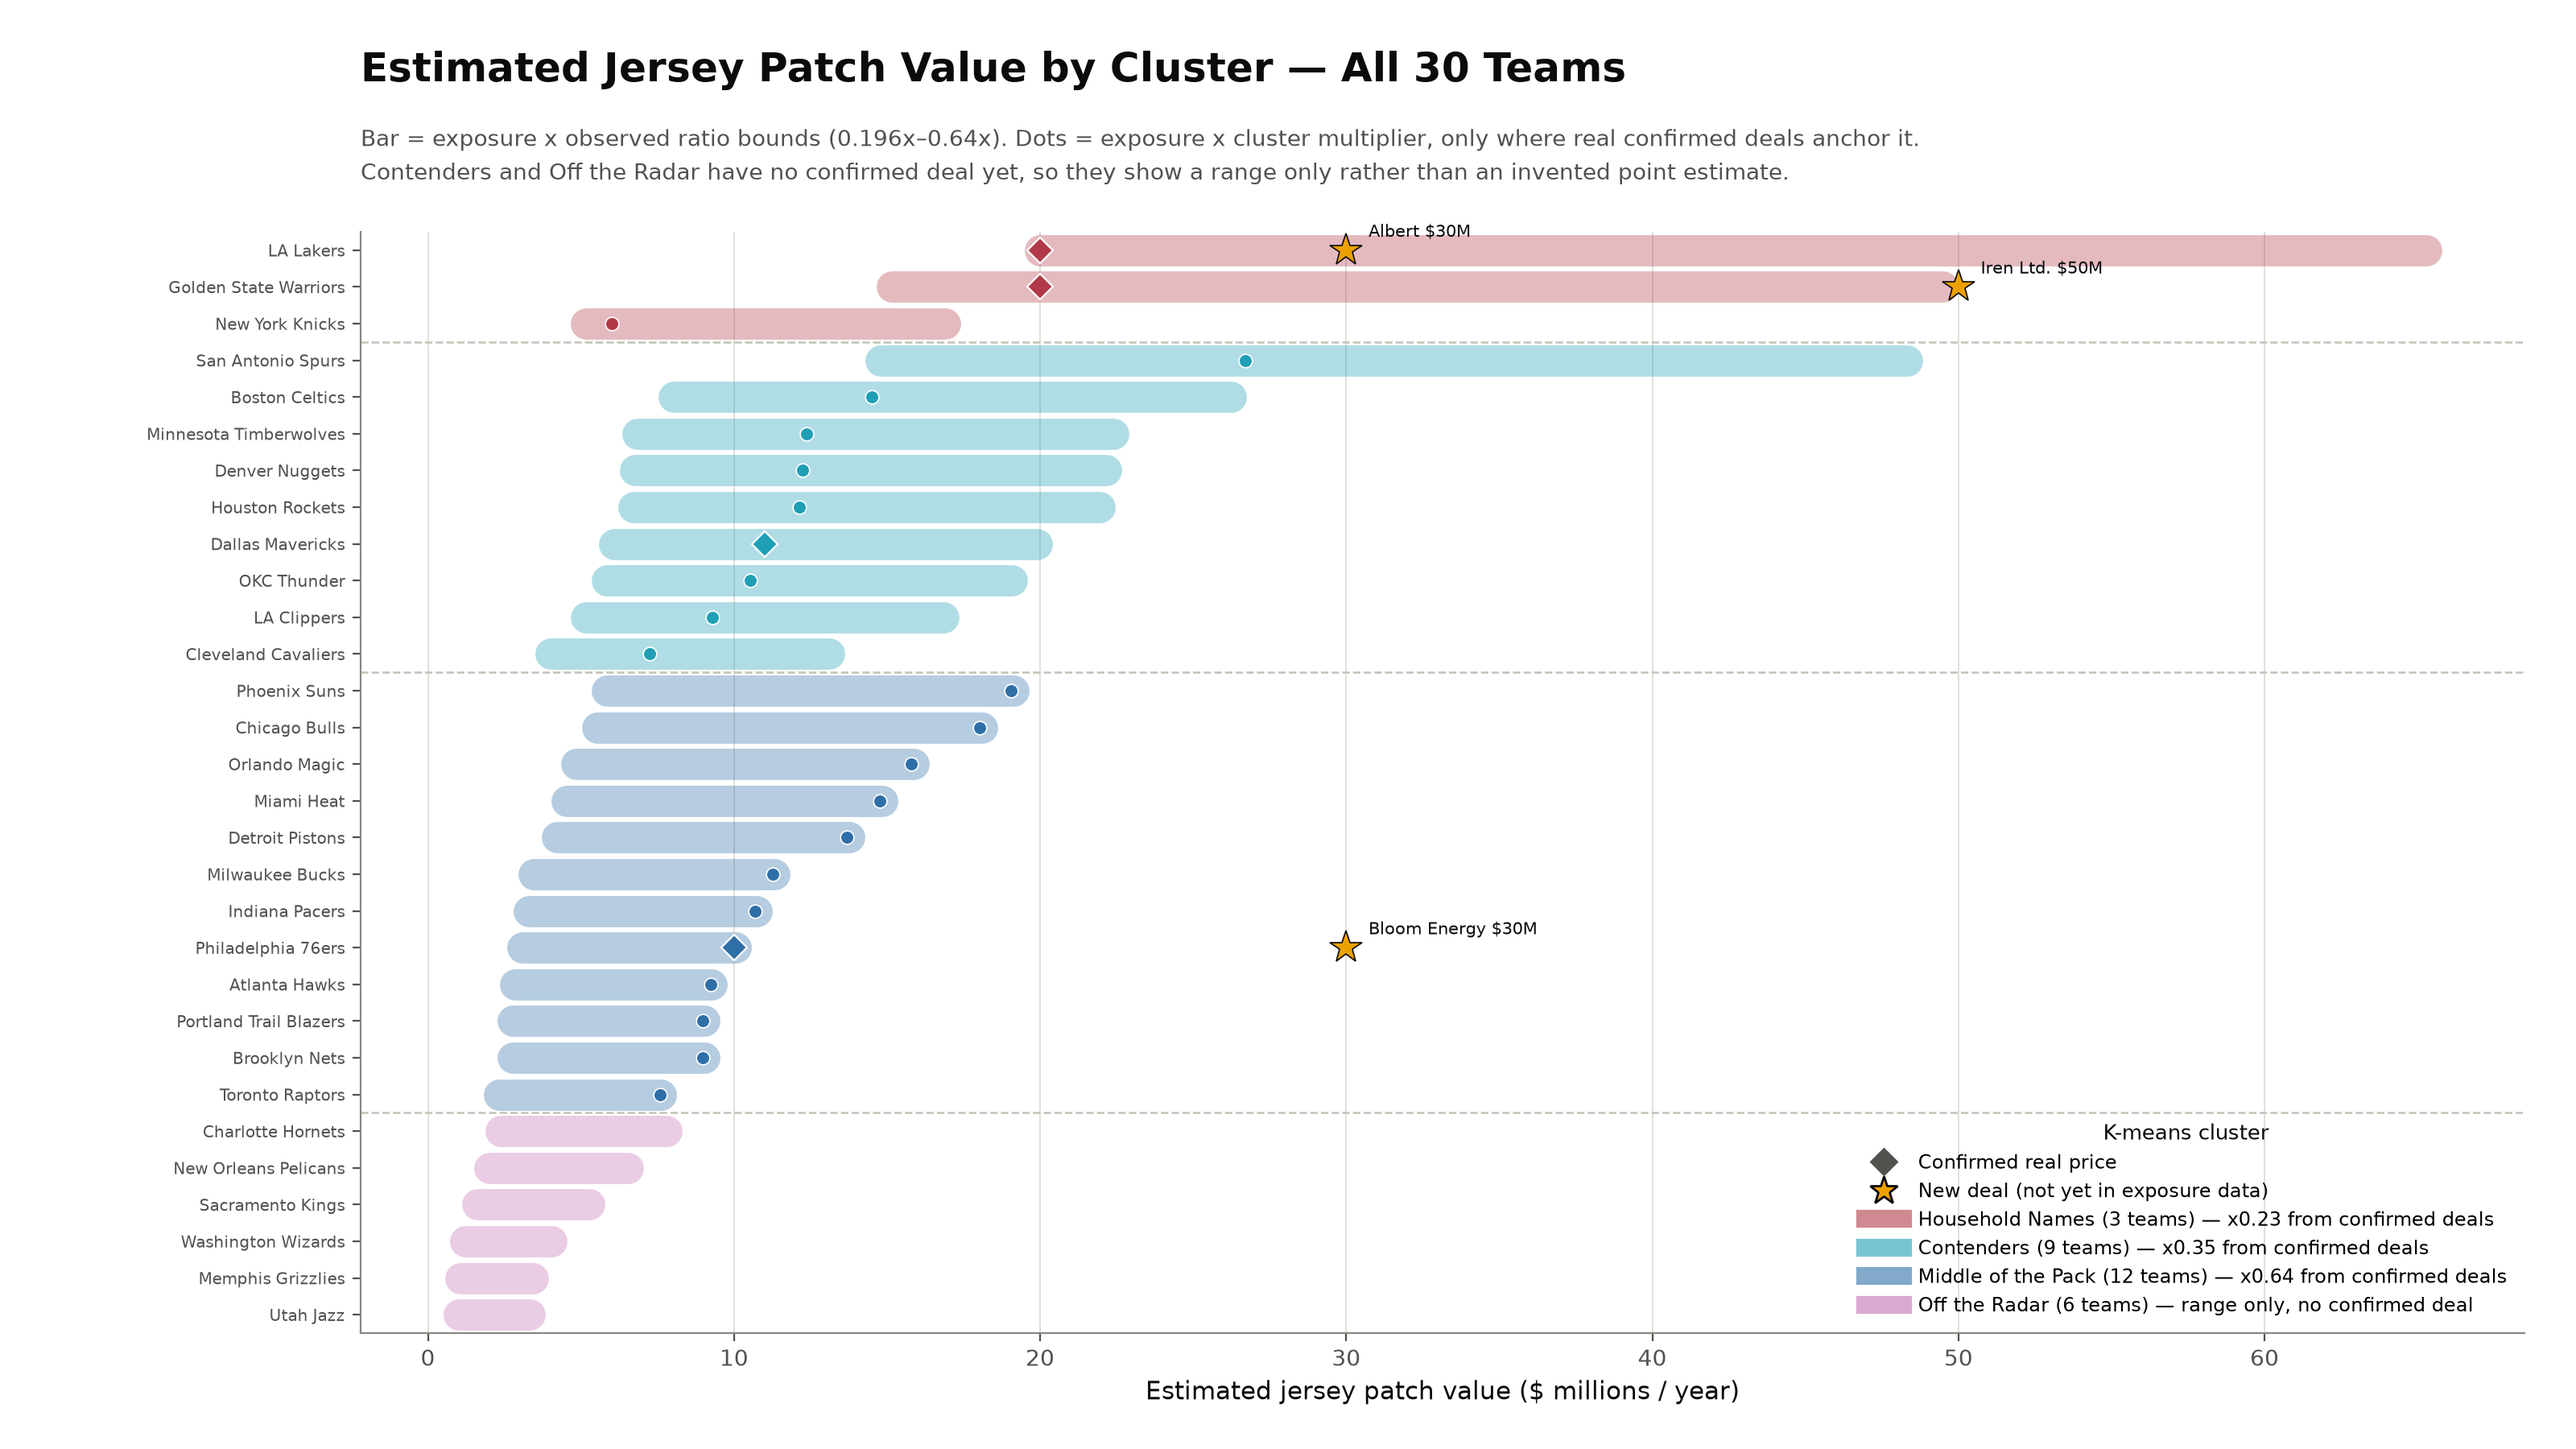
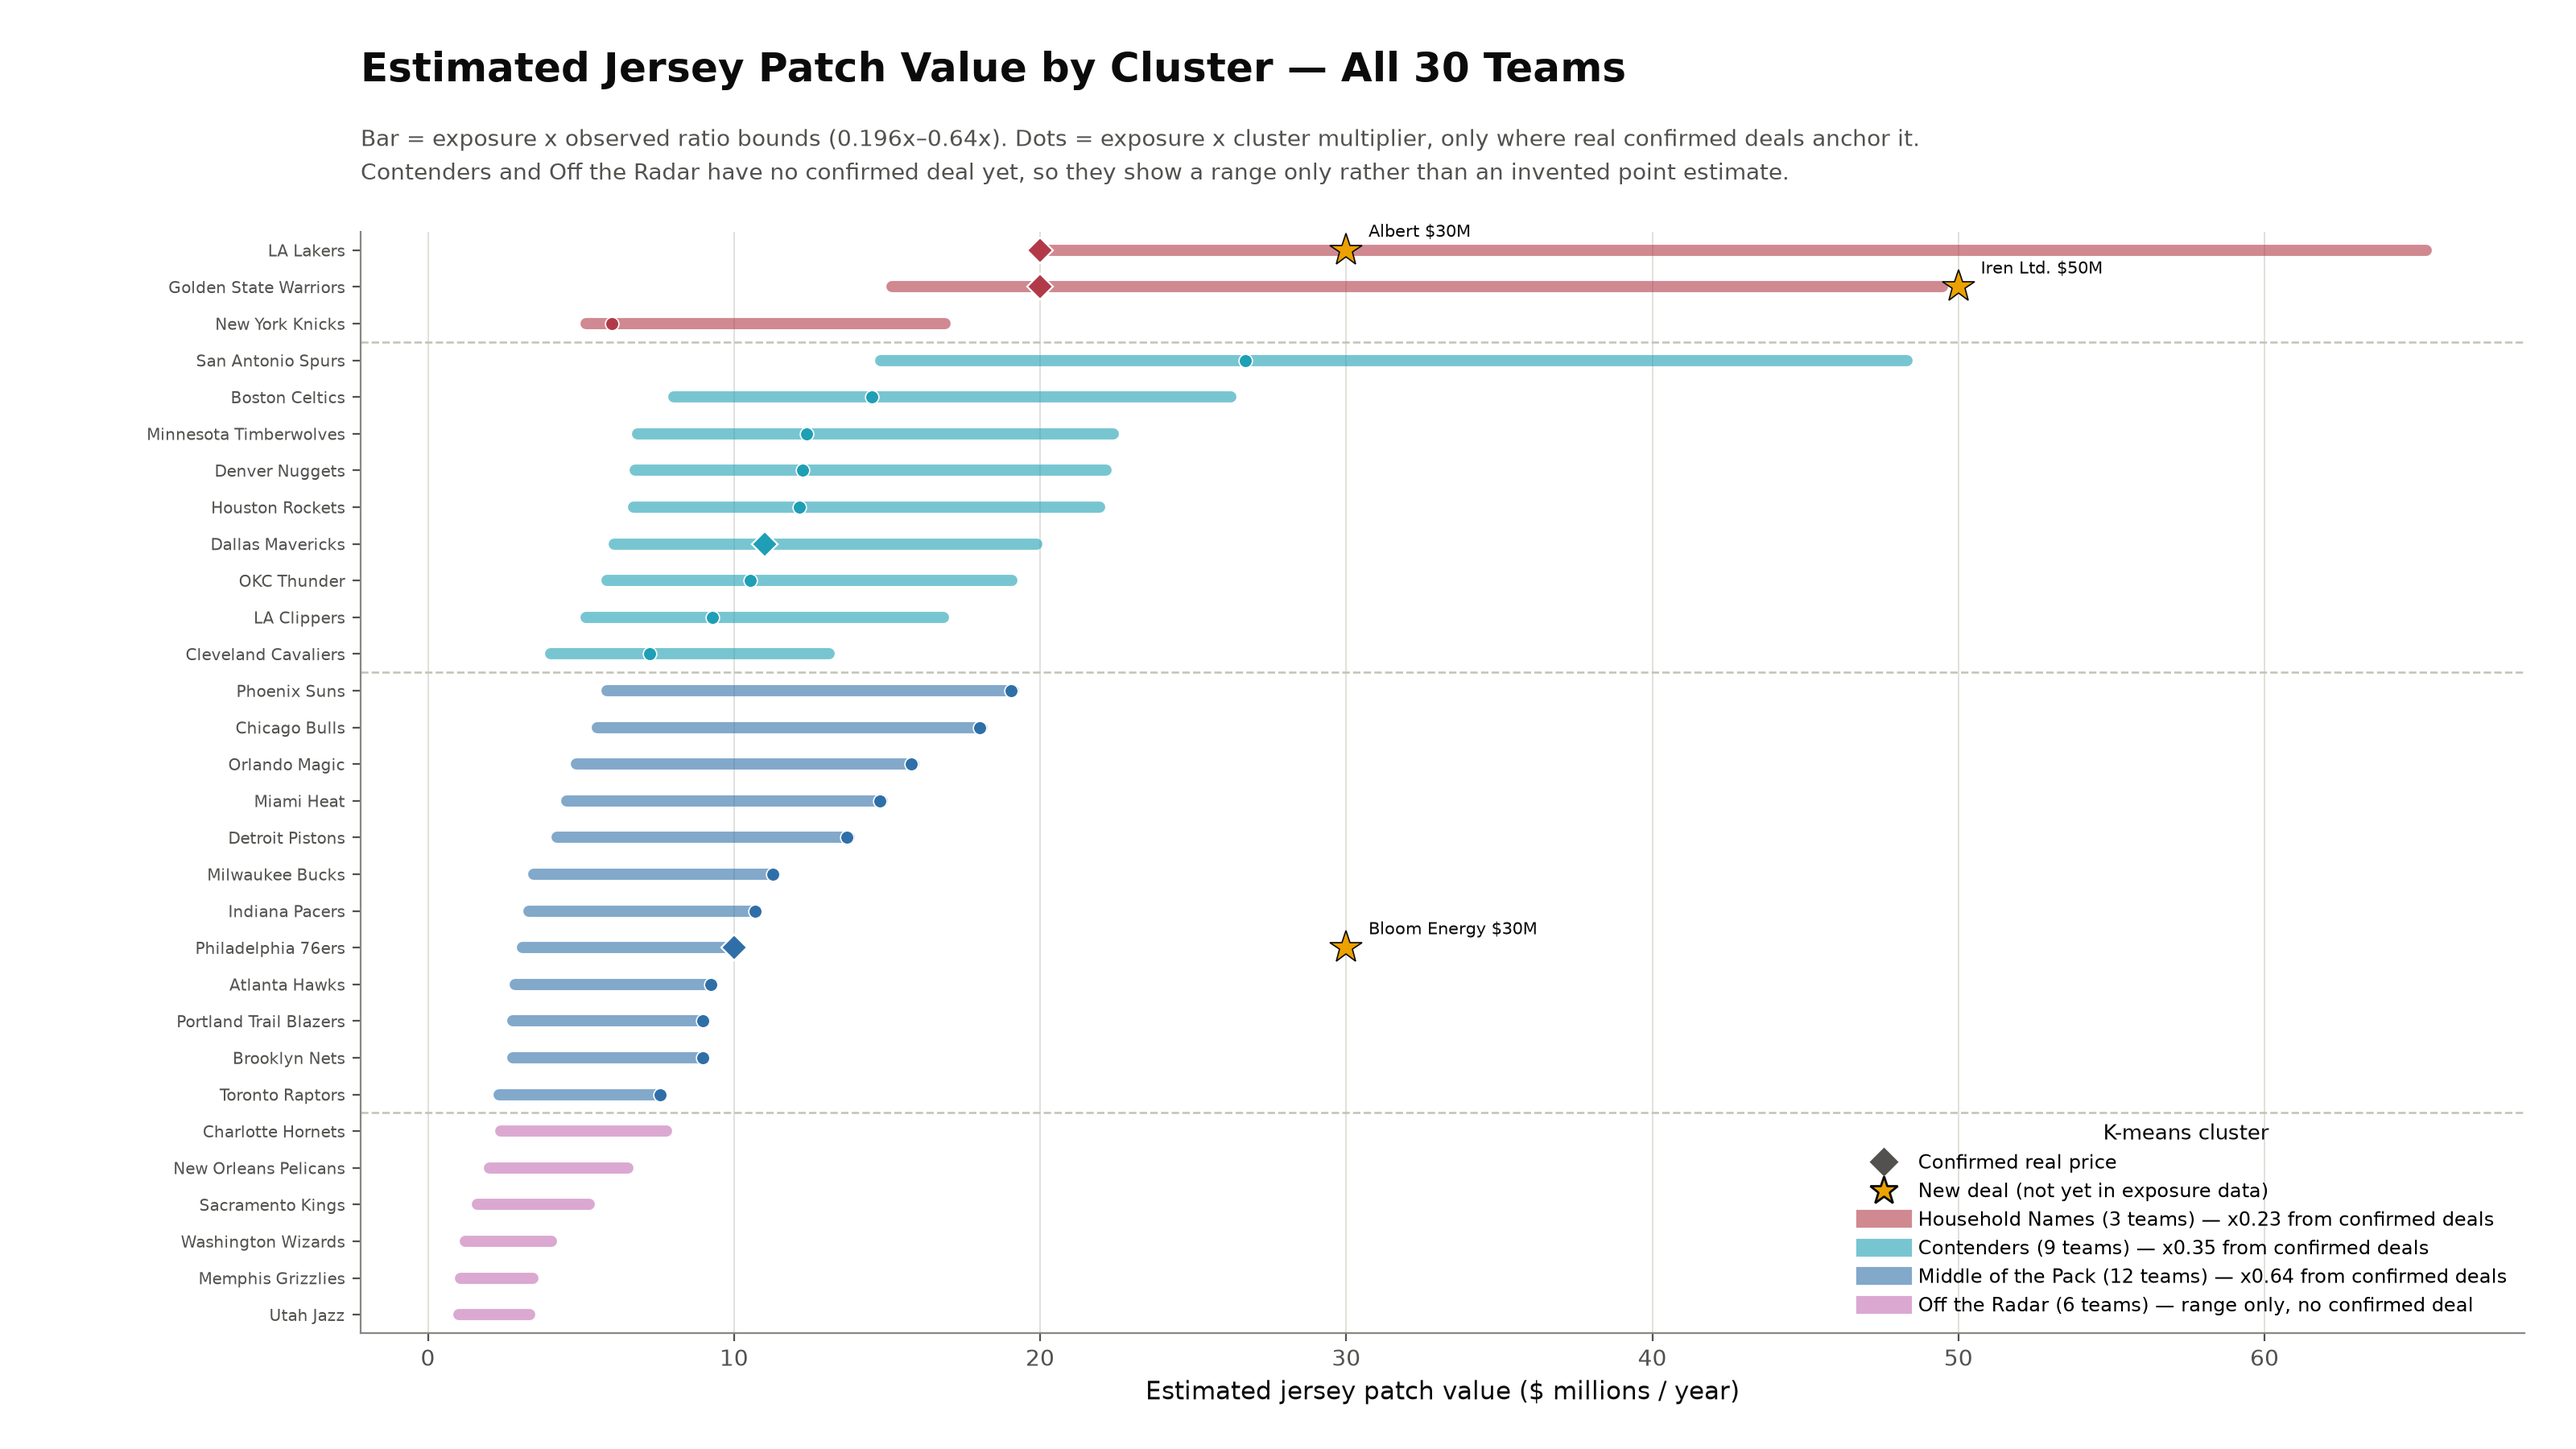
Thin the range bars in cluster_valuation_chart.py
linewidth 14 -> 5, alpha 0.35 -> 0.6 (thinner bars needed more opacity to
stay visible) per requested reference style.

Claude-Session: https://claude.ai/code/session_011dmqRCX3meF8tbZkeR883H

Changed region(s): [[0.1562, 0.1556, 0.9688, 0.9333]]

diff --git a/jersey_patch_model/cluster_valuation_chart.py b/jersey_patch_model/cluster_valuation_chart.py
@@ -121,7 +121,7 @@ for team, cluster_name, color in ordered_teams:
     yi = y_positions[team]
     low, high = exposure * RATIO_LOW, exposure * RATIO_HIGH
 
-    ax.plot([low, high], [yi, yi], color=color, alpha=0.35, linewidth=14,
+    ax.plot([low, high], [yi, yi], color=color, alpha=0.6, linewidth=5,
             solid_capstyle="round", zorder=2)
 
     mult = cluster_multiplier[cluster_name]
